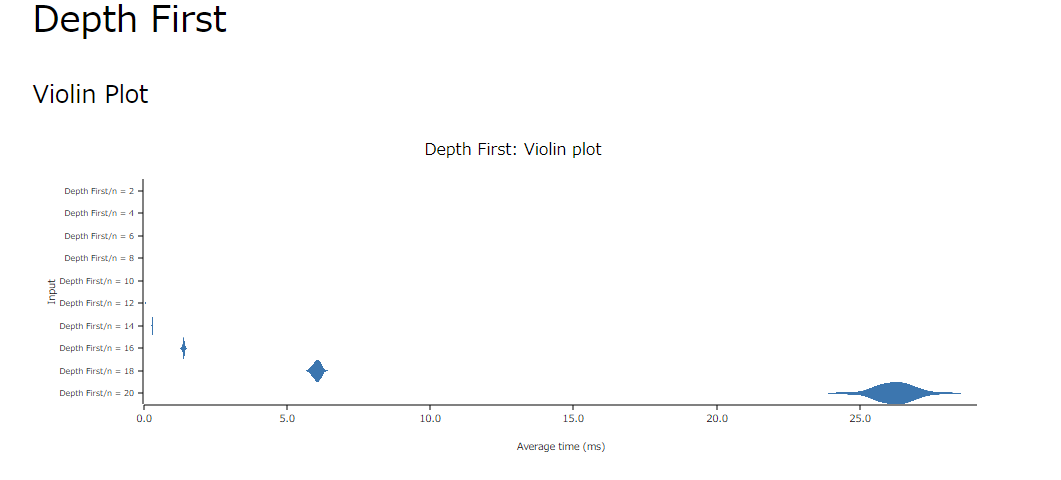
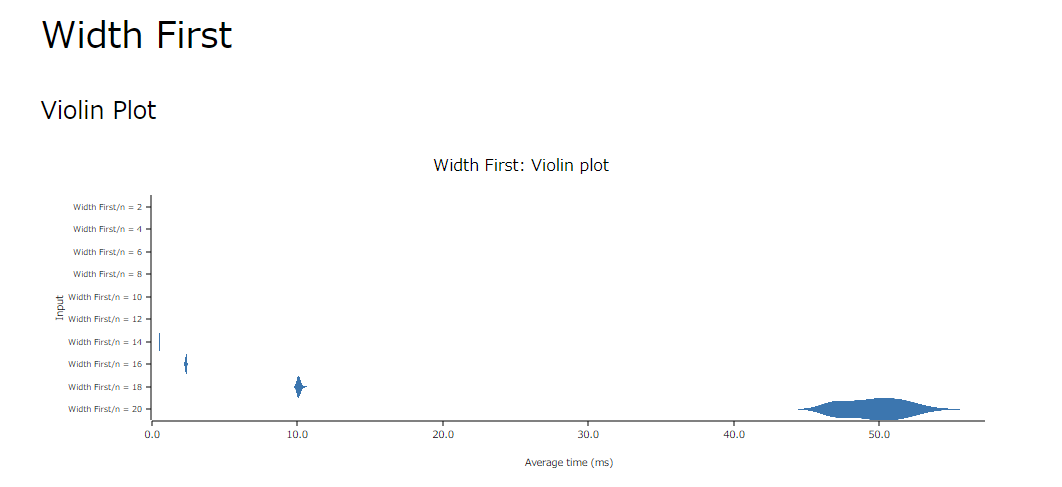
幅優先探索のベンチマークを追加する

diff --git a/ch06/regex/benches/benchmark.rs b/ch06/regex/benches/benchmark.rs
@@ -94,5 +94,5 @@ fn width_first(c: &mut Criterion) {
     }
 }
 
-criterion_group!(benches, rust_regex, depth_first);
+criterion_group!(benches, width_first, depth_first);
 criterion_main!(benches);
